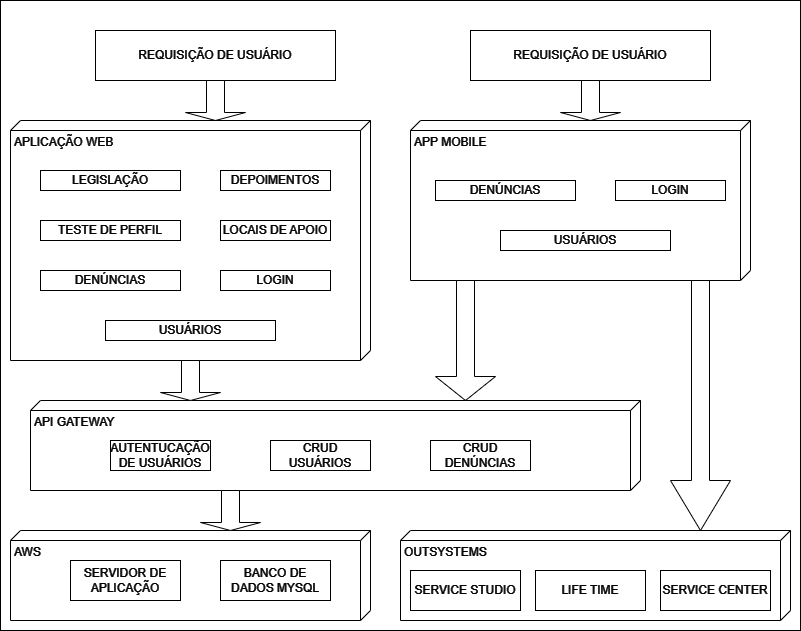
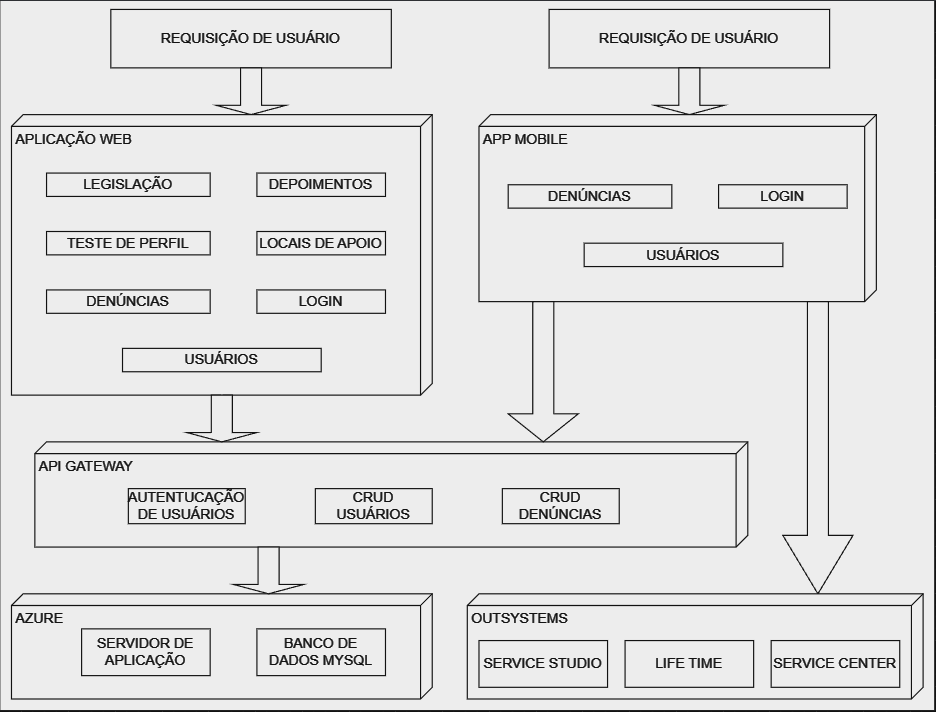
Correção arquitetura

Changed region(s): [[0.0, 0.0, 1.0, 1.0]]

diff --git a/docs/contexto.md b/docs/contexto.md
@@ -4,21 +4,23 @@
 
 Uma em cada três mulheres brasileiras já foi vítima de algum tipo de violência, aponta pesquisa realizada pelo Senado Federal em 2017. Somente no ano de 2020, mais de 105 mil denúncias de violência contra a mulher foram registradas nas plataformas do Ligue 180 e do Disque 100, de acordo com o Ministério da Mulher, da Família e dos Direitos Humanos.
 
-Promulgada em 1996, a Convenção de Belém do Pará definiu violência contra a mulher como qualquer ato ou conduta baseada no gênero que lhe cause morte, dano ou sofrimento físico, sexual ou psicológico, tanto na esfera pública quanto na esfera privada. Dez anos depois, em 2006, a Lei Maria da Penha passou a apresentar mais duas formas de violência: moral e patrimonial, totalizando cinco formas de violência doméstica e familiar praticadas contra mulheres.
+Promulgada em 1996, a Convenção de Belém do Pará definiu violência contra a mulher como qualquer ato ou conduta baseada no gênero que lhe cause morte, dano ou sofrimento físico, sexual ou psicológico, tanto na esfera pública como na esfera privada. Dez anos depois, em 2006 a Lei Maria da Penha passou a apresentar mais duas formas de violência: moral e patrimonial, totalizando em cinco as formas de violência doméstica e familiar praticadas contra mulheres.
 
-Muitas vezes as ações de violência cometidas contra mulheres atingem sua expressão máxima e resultam em óbito. De acordo com o mapa da violência de 2015, organizado pela Faculdade Latino-Americana de Ciências Sociais (Flacso), o Brasil ocupa hoje a quinta posição no ranking mundial - em um grupo de 83 países - em feminicídio, entendido como o assassinato de uma mulher em razão de sua condição de ser mulher.
+Muitas vezes as ações de violência cometidas contra mulheres atingem sua expressão máxima e resultam em óbito. De acordo com mapa da violência de 2015, organizado pela Faculdade Latino-Americana de Ciências Sociais (Flacso), o Brasil ocupa hoje a quinta posição no ranking mundial - em um grupo de 83 países - em feminicídio, entendido como o assassinato de uma mulher em razão de sua condição de ser mulher.
 
 ## Problema
 
-A violência no ambiente familiar ou em comunidade representa um dos principais obstáculos para assegurar liberdades fundamentais para mulheres e meninas. Nos últimos anos, é notória a intensificação dos debates a respeito, principalmente a violência doméstica. Este é um processo que seguirá em curso sobre a ampliação e aperfeiçoamento de estratégias e instituições para uma melhor abordagem deste problema social.
 
-Para dimensionar o tamanho desse problema, basta observarmos os dados mais letais referentes ao tema. Nos últimos vinte anos, 75.280 mulheres foram mortas. Somente em 2017, mulheres foram maioria entre as vítimas nos 209.580 registros de violência física - representando 67% do total de vítimas agredidas fisicamente. Se observarmos os perfis das mulheres vítimas de violência doméstica nos anos de 2016 a 2018, em aproximadamente 35% dos casos, são cônjuges/companheiros. A maior parte das vítimas representa parcela vulnerável da sociedade, como negras e pardas (46%) e de ensino fundamental incompleto (21%).
+
+A violência no ambiente familiar ou em comunidade representa um dos principais obstáculos para assegurar liberdades fundamentais para mulheres e meninas. Nos últimos anos é notória a intensificação dos debates a respeito, principalmente a violência doméstica. Este é um processo que seguirá em curso sobre a ampliação e aperfeiçoamento de estratégias e instituições para uma melhor abordagem deste problema social.
+
+Para dimensionar o tamanho desse problema basta observarmos os dados mais letais referentes ao tema. Nos últimos vinte anos, 75.280 mulheres foram mortas. Somente em 2017, mulheres foram maioria entre as vítimas nos 209.580 registros de violência física - representando 67% do total de vítimas agredidas fisicamente. Se observarmos os perfis das mulheres vítimas de violência doméstica nos anos de 2016 a 2018, em aproximadamente 35% dos casos, são cônjuges/companheiros. A maior parte das vítimas representa parcela vulnerável da sociedade, como negras e pardas (46%) e de ensino fundamental incompleto (21%).
 
 O desconhecimento da sociedade também contribui para fortalecer esta desorientação ao caminho correto a seguir. De acordo com pesquisa realizada pelo Data Popular (2013), a forma como a lei funciona e apoia mulheres é desconhecida pela maior parte da população: 24% sabem dos juizados especiais, 28% conhecem os serviços de saúde especializados e somente 32% conhecem as casas de abrigo temporário. Apesar do amplo conhecimento sobre as Delegacias da Mulher (97%) e a Lei Maria da Penha (66%), os serviços de apoio às mulheres em situação de violência são pouco conhecidos.
 
-A recorrência das agressões também é uma característica comum nos casos em que a mulher não denuncia seu agressor. Entre as mulheres entrevistadas na PNAD de 2009 que procuraram a polícia quando foram agredidas, uma parcela importante não registrou queixa (12,2%), ou seja, não houve registro formal da agressão. Este número sobe (14,6%) quando se trata de um homem conhecido/próximo. A falta de confiança na polícia ou medo de represálias ao se buscar o auxílio do Estado configura a principal causa.
+A recorrência das agressões também é uma característica comum nos casos onde a mulher não denuncia seu agressor. Entre as mulheres entrevistadas na PNAD de 2009 que procuraram a polícia quando foram agredidas, uma parcela importante não registrou queixa (12,2%), ou seja, não houve registro formal da agressão. Este número sobe (14,6%), quando se trata de um homem conhecido/próximo. A falta de confiança na polícia ou medo de represálias ao se buscar o auxílio do Estado configuram a principal causa.
 
-A vulnerabilidade das mulheres as torna também mais inseguras, levando ao centro de nosso questionamento - a falta de conhecimento e o medo em fazer a denúncia. Apesar do debate público, ainda se configura um caminho difícil para a vítima se desprender de todos os fatores que compõem o ciclo de violência e alcançar a segurança necessária para efetivar a denúncia. É necessário fornecer um caminho mais seguro e acessível, um aplicativo que será a extensão de uma plataforma, com conteúdo informativo que forneça acolhimento e estímulo para que vítimas realizem suas denúncias de modo rápido e integrado.
+A vulnerabilidade das mulheres as torna também mais inseguras, levando ao centro de nosso questionamento - a falta de conhecimento e o medo em fazer a denúncia. Apesar do debate público, ainda configura-se um caminho difícil para a vítima, se desprender de todos os fatores que compõem o ciclo de violência e alcançar a segurança necessária para efetivar a denúncia. É necessário fornecer um caminho mais seguro e acessível, um aplicativo que será a extensão de uma plataforma, com conteúdo informativo que forneça acolhimento e estímulo para que vítimas realizem suas denúncias de modo rápido e integrado.
 
 ## Objetivos
 
@@ -35,15 +37,20 @@ Desenvolver uma plataforma integrada composta por uma aplicação web e uma vers
 - Identificar e listar os principais mecanismos de denúncia em Minas Gerais, organizados por município, para facilitar o processo de denúncia;
 - Construir uma plataforma que permita a inserção de depoimentos, incentivando o acolhimento e promovendo a conscientização sobre a violência contra a mulher;
 - Integrar a versão móvel como uma ferramenta adicional para facilitar o processo de denúncia, tornando-o mais acessível e prático para as usuárias;
-- Garantir a eficiência, escalabilidade e acessibilidade da plataforma por meio da implementação de uma arquitetura de sistemas distribuídos.
+- Garantir a eficiência, escalabilidade e acessibilidade da plataforma por meio da implementação de uma arquitetura de sistemas distribuídos;
+- Integrar à aplicação uma API de consulta de antecedentes criminais, proporcionando a possibilidade de verificar informações relevantes sobre potenciais agressores.
 
 ## Justificativa
 
-A solução proposta neste projeto para disseminar informações sobre a violência contra a mulher, redes de apoio e canais de denúncia por meio de plataforma mostra-se eficaz, uma vez que o uso da internet tem aumentado no país. De acordo com a pesquisa realizada pelo Centro Regional de Estudos para o Desenvolvimento da Sociedade da Informação (CETIC) em 2020, 83% dos domicílios brasileiros possuem acesso à internet, com menores diferenças regionais em relação a 2019, com maior acesso das classes C, D e E, e 85% das mulheres utilizam a internet.
 
-Espera-se que a plataforma proposta promova o encorajamento necessário às vítimas para fazer suas denúncias, por esclarecer sobre o tema da violência contra a mulher, sobre as redes de apoio, o acesso aos canais de denúncia e a publicação de depoimentos. A dualidade versão web e o aplicativo, uma vez integrados, possibilitará uma fonte essencial de recursos imediatos, além de fomentar a conscientização da população.
+
+A solução proposta neste projeto para disseminar informações sobre a violência contra mulher, redes de apoio e canais de denúncia por meio de plataforma mostra-se eficaz, uma vez que o uso da internet tem aumentado no país. De acordo com a pesquisa realizada pelo Centro Regional de Estudos para o Desenvolvimento da Sociedade da Informação (CETIC) em 2020, 83% dos domicílios brasileiros possuem acesso à internet, com menores diferenças regionais em relação a 2019, com maior acesso das classes C, D e E, e 85% das mulheres utilizam a internet.
+
+Espera-se que a plataforma proposta promova o encorajamento necessário á vítimas a fazer suas denúncias, por esclarecer sobre o tema da violência contra a mulher, sobre as redes de apoio, o acesso aos canais de denúncia e a publicação de depoimentos. A dualidade versão web e o aplicativo uma vez integrados possibilitará uma fonte essencial de recursos imediatos, além de fomentar a conscientização da população. 
+
 
 ## Público-Alvo
+
 
 Pessoas de todos os gêneros e idades que sejam residentes em Minas Gerais. Entretanto, nosso foco será naquelas que sejam ou conheçam mulheres que tenham sido vítimas de violência doméstica de qualquer tipo (física, sexual, psicológica, moral e/ou patrimonial).
 
@@ -85,78 +92,76 @@ Com base na análise das personas, foram identificadas as seguintes histórias d
 
 ## Requisitos
 
-As tabelas que se seguem apresentam os requisitos funcionais e não funcionais que detalham o escopo do projeto.
+As tabelas que se seguem apresentam os requisitos funcionais e não funcionais que detalham o escopo do projeto. Para determinar a prioridade de requisitos, aplicar uma técnica de priorização de requisitos e detalhar como a técnica foi aplicada.
 
 ### Requisitos Funcionais
 
-Para atender às demandas dos usuários, foram estabelecidos os seguintes requisitos funcionais:
-
-| ID     | Descrição do Requisito                              | Prioridade |
-|--------|-----------------------------------------------------|------------|
-| RF-001 | Cadastrar denúncia de violência doméstica           | ALTA       |
-| RF-002 | Consultar denúncia de violência doméstica           | ALTA       |
-| RF-003 | Editar denúncia de violência doméstica              | ALTA       |
-| RF-004 | Excluir denúncia de violência doméstica             | ALTA       |
-| RF-005 | Gerenciar denúncias de violência doméstica          | ALTA       |
-| RF-006 | Consultar redes de apoio disponíveis                | ALTA       |
-| RF-007 | Visualizar depoimentos de vítimas                   | MÉDIA      |
-| RF-008 | Realizar teste sobre violência doméstica            | MÉDIA      |
-| RF-009 | Gerenciar perfis de usuários                        | ALTA       |
-| RF-010 | Criar perfil de usuário                             | ALTA       |
-| RF-011 | Consultar perfil de usuário                         | ALTA       |
-| RF-012 | Editar perfil de usuário                            | ALTA       |
-| RF-013 | Excluir perfil de usuário                           | ALTA       |
-| RF-014 | Fazer login no sistema                              | BAIXA      |
-| RF-015 | Fazer logout do sistema                             | BAIXA      |
+|ID    | Descrição do Requisito  | Prioridade |
+|------|-----------------------------------------|----|
+|RF-001| Realizar denúncia | ALTA | 
+|RF-002| Consultar locais de denúncia   | MÉDIA |
+|RF-003| Gerenciar locais de denúncia   | MÉDIA |
+|RF-004| Consultar redes de apoio   |ALTA |
+|RF-005| Gerenciar redes de apoio   | MÉDIA |
+|RF-006| Gerenciar depoimentos    | ALTA |
+|RF-007| Gerenciar usuários   | ALTA |
+|RF-008| Fazer login | ALTA |
+|RF-009| Fazer logout   | ALTA |
+|RF-010| Cadastrar usuário  | ALTA |
+|RF-011| API Localização  | ALTA |
+|RF-012| API Antecedentes   | MÉDIA |
 
 ### Requisitos não Funcionais
 
-Abaixo estão listados os requisitos não funcionais identificados para o sistema:
-
-| ID      | Descrição do Requisito                                                  | Prioridade |
-|---------|-------------------------------------------------------------------------|------------|
-| RNF-001 | Compatibilidade com os principais navegadores                           | ALTA       |
-| RNF-002 | Interface gráfica responsiva                                            | MÉDIA      |
-| RNF-003 | Disponibilidade do sistema por pelo menos 90% do tempo                  | ALTA       |
-| RNF-004 | Tempo de resposta inferior a 3 segundos para as solicitações do usuário | MÉDIA      |
-| RNF-005 | Conformidade com as normas e padrões legais                             | ALTA       |
-| RNF-006 |  Implementação de medidas de segurança da informação                    | MÉDIA      |
+|ID     | Descrição do Requisito  |Prioridade |
+|-------|-------------------------|----|
+|RNF-001| O sistema deverá ser compatível com os principais navegadores | ALTA | 
+|RNF-002| O sistema deverá ter um uma interface gráfica responsiva |  ALTA  | 
+|RNF-003| O sistema deverá ter disponibilidade em 90% do tempo |  ALTA | 
+|RNF-004| O sistema deverá ter tempo de resposta inferior a 3 segundos para a solicitação do usuário |  MÉDIA | 
+|RNF-005| O sistema deverá atender às normas e padrões legais exigidos por lei |  ALTA | 
+|RNF-006| O sistema deverá adotar processos para garantir a segurança da informação  |  ALTA | 
 
 ## Restrições
 
-O projeto está restrito pelos itens apresentados na tabela a seguir:
+O projeto está restrito pelos itens apresentados na tabela a seguir.
 
-| ID | Restrição                                                                                         |
-|----|---------------------------------------------------------------------------------------------------|
-| 01 | O projeto deverá ser entregue até o final de junho de 2024                                        |
-| 02 | A abrangência do projeto limita-se a Minas Gerais                                                 |
-| 03 | Todo o conteúdo do sistema, incluindo textos, botões e mensagens de erro, deve estar em português |
+|ID| Restrição                                             |
+|--|-------------------------------------------------------|
+|01| O projeto deverá ser entregue até o final do semestre |
+|02| A abrangência do projeto limita-se a Minas Gerais      |
+|03| Apenas os integrantes do grupo terão acesso ao projeto     |
 
 # Catálogo de Serviços
 
-O catálogo de serviços oferecidos pelo sistema abrange as seguintes funcionalidades:
+|      `SERVIÇO`     |             `EXECUÇÃO`                                          |             `QUEM EXECUTA`             |
+|--------------------|-----------------------------------------------------------------|----------------------------------------|
+|Fazer Login | O Usuário realiza o acesso ao sistema utilizando credenciais de acesso. O usuário deve estar previamente cadastrado no sistema. | Usuário comum ou administrador. |
+|Fazer Logout | O usuário sai do sistema clicando no botão de logout. A sessão do usuário é encerrada. | Usuário comum ou administrador. |
+|Cadastrar Usuário | Realiza o cadastro de usuários no sistema. São informados os dados de identificação do usuário e gera-se uma senha de acesso dentro dos padrões de segurança estabelecidos. | Usuário administrador. |
+|Gerenciar Usuário | Realiza o gerenciamento de usuários previamente cadastrados. O sistema apresenta as operações de Alteração, Exclusão e Consulta de usuários. | Usuário administrador. |
+|Realizar Depoimento |O usuário cadastra depoimentos contando sua experiência relacionada à violência contra a mulher. | Usuário comum ou administrador. |
+|Gerenciar Depoimento | O usuário pode gerenciar depoimentos que já foram cadastrados.O sistema apresenta as operações de Alteração, Exclusão e Consulta de depoimentos.| Usuário comum ou administrador. |
+|Consultar Locais de Denúncia |O usuário pesquisa um local de denúncia. Após selecionar a cidade onde se encontra, o sistema lista locais de denúncia próximos a localidade informada.| Usuário comum ou administrador. |
+|Realizar Denúncia |Usuários realizam as denúncias, com informações de localidade e sobre à violência sofrida para que as autoridades consigam realizar as ações necessárias.| Usuário comum ou administrador.|
+|Gerenciar Denúncia |O usuário pode gerenciar as denúncias publicadas no sistema. O sistema apresenta as operações de Alteração, Exclusão e Consulta de denúncia.| Usuário comum ou administrador. |
+|Consultar Redes de Apoio |O usuário pesquisa um local de apoio à vítima. Após selecionar a cidade onde se encontra, o sistema lista locais de apoio próximos a localidade informada.| Usuário comum ou administrador. |
+|Gerenciar Redes de Apoio |O usuário pode gerenciar os locais de apoio cadastrados no sistema. O sistema apresenta as operações de Alteração, Exclusão e Consulta dos locais de apoio.| Usuário administrador. |
+|Teste de Perfil de Violência |O usuário responde um questionário que o apoia na identificação de possíveis situações vividas de violência. Ao fim do questionário, o sistema informa se o usuário está sendo ou foi vítima de violência.| Usuário comum ou administrador. |
+|Consulta dos Tipos de Violência |O usuário pode consultar informações sobre os tipos de violência, onde, são classificados em cinco tipos: Física, Moral, Patrimonial, Psicológica e Sexual.| Usuário comum ou administrador. |
+|Consulta de Legislação |O usuário pode consultar o resumo da Lei Maria da Penha e o sistema fornece link de acesso externo para a Lei Maria da Penha na íntegra.| Usuário comum ou administrador. |
+|Visualizar notícias |O usuário pode ler notícias relacionadas ao tema violência doméstica.| Usuário comum ou administrador. |
+|Gerenciar notícias |O usuário pode gerenciar as notícias previamente cadastradas no sistema. O sistema apresenta as operações de Alteração, Exclusão e Consulta das notícias.| Usuário administrador. |
+|Consultar antecedentes criminais |O usuário pode consultar informações sobre antecedentes criminais de parceiros. O sistema utiliza API da Polícia Civil como fonte de dados.| Usuário comum ou administrador. |
 
-|      SERVIÇO                  |             EXECUÇÃO                                                   |             QUEM EXECUTA             |
-|-------------------------------|------------------------------------------------------------------------|--------------------------------------|
-| Fazer login                   | O usuário realiza o acesso ao sistema utilizando credenciais de acesso. Para isso, é necessário estar previamente cadastrado no sistema. | Usuário comum ou administrador |
-| Fazer logout                  | O usuário sai do sistema clicando no botão de sair, o que encerra sua sessão no sistema.  | Usuário comum ou administrador |
-| Cadastrar usuário             | Realiza o cadastro de usuários no sistema, fornecendo dados de identificação e uma senha. | Usuário comum ou administrador |
-| Gerenciar usuários            | Permite o gerenciamento de usuários já cadastrados, incluindo operações de edição, exclusão e consulta. | Usuário administrador |
-| Realizar depoimento           | Permite aos usuários comuns cadastrar depoimentos sobre suas experiências relacionadas à violência contra a mulher. | Usuário comum |
-| Consultar locais de denúncia  | Permite ao usuário buscar locais de denúncia próximos, selecionando a cidade desejada para listar as opções disponíveis. | Usuário comum ou administrador |
-| Realizar denúncia             | Permite aos usuários realizar denúncias de violência doméstica, fornecendo informações detalhadas para as autoridades competentes. | Usuário comum |
-| Gerenciar denúncias           | Oferece operações de edição, exclusão e consulta das denúncias publicadas no sistema. | Usuário comum ou administrador |
-| Consultar redes de apoio      | Permite ao usuário pesquisar locais de apoio à vítima, listando opções próximas à localidade selecionada. | Usuário comum ou administrador |
-| Teste de perfil de violência  | Oferece um questionário para auxiliar na identificação de possíveis situações de violência vividas pelo usuário, informando o resultado ao final. | Usuário comum |
-| Consultar tipos de violência  | Permite consultar informações sobre os tipos de violência, classificados em física, moral, patrimonial, psicológica e sexual. | Usuário comum ou administrador |
-| Consultar legislação          | Oferece um resumo da Lei Maria da Penha e fornece um link de acesso externo para a lei na íntegra. | Usuário comum  |
-| Visualizar notícias           | Permite ao usuário visualizar notícias selecionadas relacionadas ao tema violência doméstica. | Usuário comum |
+
 
 # Gerenciamento de Projeto
 
-O gerenciamento do projeto será baseado na metodologia PMBOK (Project Management Body of Knowledge), priorizando seus cinco processos principais: Iniciação, Planejamento, Execução, Monitoramento e Encerramento. Durante todo o período do projeto, espera-se manter os membros da equipe, o líder do projeto e as tarefas alinhados em relação à demanda, produtividade, feedback e tempo.
+O gerenciamento do projeto será baseado na metodologia PMBOK (Project Management Body of Knowledge), priorizando seus cinco processos principais: Iniciação, Planejamento, Execução, Monitoramento e Encerramento. Durante todo o período do projeto, é esperado manter os membros da equipe, o líder do projeto e as tarefas alinhados em relação à demanda, produtividade, feedback e tempo.
 
 Ao longo das cinco etapas do projeto, planeja-se aplicar as fases da metodologia de forma que, no início de cada entrega, sejam analisados os requisitos e as tarefas a serem desenvolvidas. Em seguida, de acordo com as competências de cada membro da equipe, as funções serão atribuídas de modo a otimizar a entrega. Ao final de cada etapa, será realizada uma análise dos pontos positivos e negativos, visando aprimorar a performance na entrega seguinte.
+
 
 #### ETAPA 1: Conceituação e planejamento do projeto - Sistema Distribuído
 
@@ -164,7 +169,7 @@ Ao longo das cinco etapas do projeto, planeja-se aplicar as fases da metodologia
 - Distribuição de tarefas, definição de funções e tempo disponível;
 - Pesquisa e adequação do tema a uma nova funcionalidade;
 - Definição de requisitos funcionais, não funcionais e restrições;
-- Desenvolvimento de um documento do projeto contendo a contextualização do projeto.
+- Desenvolver um documento do projeto contendo a contextualização do projeto.
 
 ![Etapa 01: Conceituação e planejamento do projeto - Sistema Distribuído](img/etapa01-gantt.png)
 
@@ -172,11 +177,11 @@ Ao longo das cinco etapas do projeto, planeja-se aplicar as fases da metodologia
 
 - Análise dos requisitos da etapa e definição do escopo;
 - Distribuição de tarefas, definição de funções e tempo disponível;
-- Identificação das APIs e serviços web que farão parte do sistema;
-- Desenvolvimento das APIs de acordo com o projeto;
-- Implementação de autenticação e segurança nas APIs, se necessário;
-- Realização de testes de unidade e integração nas APIs e serviços web;
-- Documentação das APIs e serviços Web no documento de projeto.
+- Identificar as APIs e serviços web que formaram parte do sistema;
+- Desenvolver as APIs de acordo com o projeto;
+- Implementar autenticação e segurança nas APIs, se necessário;
+- Realizar testes de unidade e integração nas APIs e serviços web;
+- Documentar as APIs e serviços Web no documento de projeto.
 
 ![Etapa 02: APIs e Web Services](img/gantt-etapa02.png)
 
@@ -184,76 +189,64 @@ Ao longo das cinco etapas do projeto, planeja-se aplicar as fases da metodologia
 
 - Análise dos requisitos da etapa e definição do escopo;
 - Distribuição de tarefas, definição de funções e tempo disponível;
-- Desenvolvimento das diferentes páginas e componentes da aplicação web;
-- Integração das APIs e serviços web desenvolvidos anteriormente na aplicação;
-- Testes da aplicação web em diferentes navegadores e dispositivos;
-- Realização de testes de desempenho e otimização da velocidade da aplicação, se necessário.
-- Documentação da aplicação web no documento de projeto.
+- Desenvolver as diferentes páginas e componentes da aplicação web;
+- Integrar as APIs e serviços web desenvolvidos anteriormente na aplicação;
+- Testar a aplicação web em diferentes navegadores e dispositivos;
+- Realizar testes de desempenho e otimizar a velocidade da aplicação, se necessário.
+- Documentar a aplicação web no documento de projeto.
 
-![Etapa 03: Aplicação web](img/gantt-etapa03.png)
+![Etapa 02: APIs e Web Services](img/gantt-etapa03.png)
 
 ### ETAPA 4: Planejar, desenvolver e gerenciar - Aplicação Móvel
 
 - Análise dos requisitos da etapa e definição do escopo;
 - Distribuição de tarefas, definição de funções e tempo disponível;
-- Definição da plataforma-alvo para a aplicação móvel (iOS, Android, etc.);
-- Projeto da interface do usuário da aplicação móvel;
-- Desenvolvimento das telas e fluxos de navegação da aplicação móvel;
-- Integração das APIs e serviços web relevantes à aplicação móvel;
-- Implementação de recursos nativos, como notificações push e geolocalização, etc;
-- Realização de testes em dispositivos reais e emuladores para garantir o desempenho;
-- Documentação da aplicação móvel no documento de projeto.
-
-![Etapa 04: Aplicação mobile](img/etapa04-gantt.png)
+- Definir a plataforma-alvo para a aplicação móvel (iOS, Android, etc.);
+- Projetar a interface do usuário da aplicação móvel;
+- Desenvolver as telas e fluxos de navegação da aplicação móvel;
+- Integrar as APIs e serviços web relevantes à aplicação móvel;
+- Implementar recursos nativos, como notificações push e geolocalização, etc;
+- Realizar testes em dispositivos reais e emuladores para garantir desempenho;
+- Documentar a aplicação web no documento de projeto.
 
 ### ETAPA 5: Apresentação do Projeto
 
 - Análise dos requisitos da etapa e definição do escopo;
-- Preparação de materiais visuais e de apresentação, como slides ou demonstrações;
-- Realização de uma apresentação para as partes interessadas, destacando os principais recursos e benefícios do sistema;
-- Demonstração da funcionalidade das aplicações web e móveis, incluindo o uso das APIs e serviços web.
-- Recebimento de feedback das partes interessadas e resposta a perguntas.
-- Fornecimento de informações sobre como acessar e usar as aplicações após o lançamento.
+- Preparar materiais visuais e de apresentação, como slides ou demonstrações;
+- Realizar uma apresentação para as partes interessadas, destacando os principais recursos e benefícios do sistema;
+- Demonstrar a funcionalidade das aplicações web e móveis, incluindo o uso das APIs e serviços web.
+- Receber feedback das partes interessadas e responder a perguntas.
+- Fornecer informações sobre como acessar e usar as aplicações após o lançamento.
+
 
 # Arquitetura da Solução
 
 Nossa solução será composta de uma aplicação web com diferentes funcionalidades para atender os requisitos funcionais e não funcionais da solução. Esse portal web será executado a partir de dois servidores, um servidor web e outro servidor para o banco de dados. Optamos por separar o front-end do back-end para a facilitação do gerenciamento e escalabilidade da solução. Para o acesso ao portal web o usuário poderá contar com duas interfaces web, uma para o acesso em desktops e outra para o acesso em dispositivos móveis. Além disso, a aplicação web contará com a integração em APIs para a expansão de suas funcionalidades. Uma das APIs que será utilizada, mostrada na arquitetura abaixo, permite a busca de antecedentes criminais de um indivíduo. Essa arquitetura poderá ser modificada e expandida ao longo do projeto, pois novas funcionalidades relativas à segurança e performance da aplicação poderão ser necessárias.
 
-![Arquitetura da Solução](img/02-arquitetura.png)
+![Arquitetura da Solução](img/arquitetura-minas-unidas.png)
 
 ## Tecnologias Utilizadas
-
-A seguir, estão listadas as tecnologias utilizadas no desenvolvimento do projeto:
 
 ### Ambiente de desenvolvimento:
 - **Visual Studio Code**: IDE para desenvolvimento do código-fonte.
 - **Git**: Sistema de controle de versão para rastreamento e gerenciamento de alterações no código-fonte, possibilitando colaboração e versionamento.
-- **GitHub**: Plataforma de hospedagem de código-fonte e colaboração para desenvolvimento de projetos.
-- **OutSystems Service Studio**: Ambiente de desenvolvimento para a plataforma OutSystems, utilizado para criar e gerenciar aplicações de maneira visual.
 
-### Front-end web:
+### Front-end:
 - **HTML**: Linguagem de marcação para estruturação do conteúdo na web.
 - **CSS**: Linguagem de estilização para design e apresentação visual da plataforma.
-- **Bootstrap**: Framework front-end que será empregado para facilitar o desenvolvimento responsivo, garantindo uma experiência do usuário consistente em diferentes dispositivos.
+- **Bootstrap**:  Framework front-end que será empregado para facilitar o desenvolvimento responsivo, garantindo uma experiência do usuário consistente em diferentes dispositivos.
 - **JavaScript**: Linguagem de programação para implementar funcionalidades dinâmicas e interativas na página web.
 
-### Front-end móvel:
-- **OutSystems**: Plataforma de desenvolvimento rápido de aplicações (low-code) que permite a criação de aplicações web e móveis utilizando uma abordagem visual e orientada a componentes.
-- **LifeTime OutSystems**: Ferramenta utilizada para gerenciamento de ambientes, versionamento e governança das aplicações.
-- **Service Center**: Ferramenta da plataforma OutSystems utilizada para gerenciamento de aplicações, monitoramento de recursos e logs de erros.
-
 ### Back-end:
-- **Node.js**: Framework de execução JavaScript assíncrono orientado a eventos, projetado para construir aplicativos de rede escalonáveis, onde muitas conexões podem ser tratadas simultaneamente.
-- **Express**: Framework web utilizado para criar aplicações Node.js, aproveitando seu módulo HTTP para criar as comunicações.
-- **Postman**: Software utilizado para testar APIs.
-- **Body-parser**: Middleware utilizado para fazer o parsing do corpo das requisições HTTP.
-- **Cors**: Middleware utilizado para habilitar o CORS (Cross-Origin Resource Sharing) no servidor Express.
+- **NODE,JS**: Framework de execução JavaScript assíncrono orientado a eventos, o Node.js foi projetado para construir aplicativos de rede escalonáveis, onde, muitas conexões podem ser tratadas simultaneamente.
+- **EXPRESS**: Framework WEB utilizado para criar aplicações NEDE.JS onde utiliza seu módulo HTTP para criar as comunicações.
+- **POSTMAN**: Software utilizado para testar APIs.
 
 ### Banco de dados:
-- **Microsoft SQL Server**: Sistema de gerenciamento de banco de dados relacional desenvolvido pela Microsoft.
+- **SQLITE**:  biblioteca em linguagem C que implementa uma base de dados SQL embutida. Programas que usem a biblioteca SQLite podem ter acesso a banco de dados SQL sem executar um processo SGBD separado.
 
-### Hospedagem
-- **Azure**: A aplicação será hospedada em um servidor na nuvem Azure da Microsoft.
+## Hospedagem
+- **AWS** Será realizar em um servidor em núvem AWS.
 
 # Referências
 

diff --git a/docs/frontend-mobile.md b/docs/frontend-mobile.md
@@ -46,7 +46,7 @@ O banco de dados armazena e gerencia os dados da aplicação, permitindo que sej
 
 As interações entre as camadas são principalmente realizadas por meio de requisições HTTP. Quando o usuário interage com a interface do aplicativo móvel, como fazer login, cadastrar-se ou registrar uma denúncia, o front-end móvel envia uma requisição HTTP para o back-end. O back-end processa a requisição, executa a lógica necessária e interage com o banco de dados, se necessário, para obter ou manipular os dados. Em seguida, o back-end retorna uma resposta ao front-end móvel, que é então apresentada ao usuário na interface.
 
-![Arquitetura](img/arquitetura-mobile.png)
+![Arquitetura](img/arquitetura-minas-unidas.png)
 
 ## Modelagem da Aplicação
 
@@ -79,41 +79,24 @@ A seguir, são detalhadas as entidades do sistema:
 ![Modelagem de dados - Mobile](img/modelagem-dados-mobile.png)
 
 ## Projeto da Interface
+[Descreva o projeto da interface móvel da aplicação, incluindo o design visual, layout das páginas, interações do usuário e outros aspectos relevantes.]
 
 ### Wireframes
 
 ![Prototipo - Mobile](img/prototipo_01.png)
 
 ### Design Visual
-
-A estrutura visual do aplicativo está dividido em três partes: barra superior (logo do projeto, login), body (principais atividades da página - denúncia, ler depoimentos, acesso a página web) e o menu de navegação.
-Quanto a composição das páginas, temos:
-
-- Página de carregamento do app: página de espera para adentrar ao conteúdo do app, composta somente por logo e informacao sobre o status de carregamento da página (nao deveria ultrapassar os 3s);
-- Página Inicial de login: onde o usuário tem a opcao de entrar de imediato com seu login/senha, cadastrar ou mesmo entrar no app como visitante (acionando a opcao "pular");
-- Página principal: página com a estrutura básica do app, onde o usuário poderá novamente fazer login ou cadastrar-se, registrar um depoimento/ denúncia ou acessar a página web do projeto através de um link direto;
-- Demais páginas (cadastro de depoimento/ denúncia, gerenciamento de usuário): páginas seguem o mesmo padrão considerando campos para serem preenchidos ou editados após a confirmação do usuário na pergunta do pop-up.
-
-Referente ao padrao estético do app optamos por seguir a mesma tendência de cores e estilos empregada na versao web. Sendo assim, recordamos as principais características:
-
-- Cor: 20% de Azul-magenta (59359a), 75% Branco (ffffff), escolhido como "fundo" da página e 5% Cian-azul (cfd5da) para destacar elementos;
-- Tipografia: A fonte principal usada no corpo do texto é "Helvetica";
-- Elementos gráficos: botões e campos apresentam formato arredondado nas suas extremidades, alertas são mostrados na tela para indicar acões necessárias ou apenas a finalização de um requerimento.
+[Descreva o estilo visual da interface, incluindo paleta de cores, tipografia, ícones e outros elementos gráficos.]
 
 ### Layout Responsivo
-
-O aplicativo aplica design responsivo com recursos do React Native, garantindo uma experiência de usuário consistente em vários dispositivos. Fontes ajustáveis proporcionalmente ao tamanho da tela, imagens adaptáveis, uso de unidades relativas, Flexbox e estados eficientes permitem um layout dinâmico e adaptável, proporcionando uma navegação agradável em diversos contextos.
+[Discuta como a interface será adaptada para diferentes tamanhos de tela e dispositivos.]
 
 ### Interações do Usuário
-
-O front-end mobile foi desenvolvido em torno de um objetivo claro e simples que é a denúncia das vítimas e textemunhas com foco principal em garantir praticidade. As ações de interação com o usuário giram em torno de informações que são visualizadas na tela através dos depoimentos e inputs que podem ser registrados no banco de dados através dos cadastros de depoimento/ denúncia/ usuário. Esses cadastros podem conter campos com opcões suspensas para serem elegidas. 
-
-Pop-ups são mostrados no centro ou na parte superior da tela para indicar alerta, negação ou sucesso em alguma solicitação. 
+[Descreva as interações do usuário na interface, como animações, transições entre páginas e outras interações.]
 
 ## Fluxo de Dados
 
 [Diagrama ou descrição do fluxo de dados na aplicação.]
-
 1. Cadastro de Usuário
 - Entrada de Dados: O usuário insere suas informações pessoais, como nome, data de nascimento, cidade, estado, e-mail e senha.
 - Processamento: Esses dados são validados no front-end para garantir que todos os campos obrigatórios estão preenchidos e que o formato dos dados é adequado.
